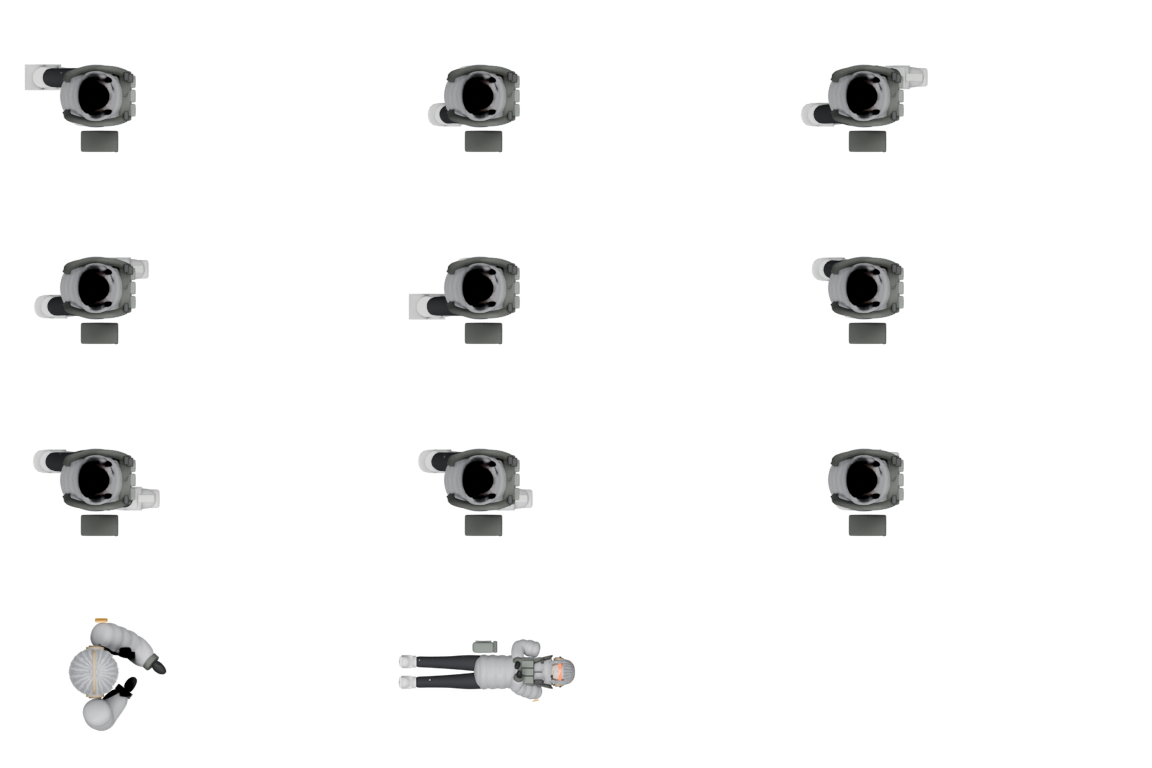
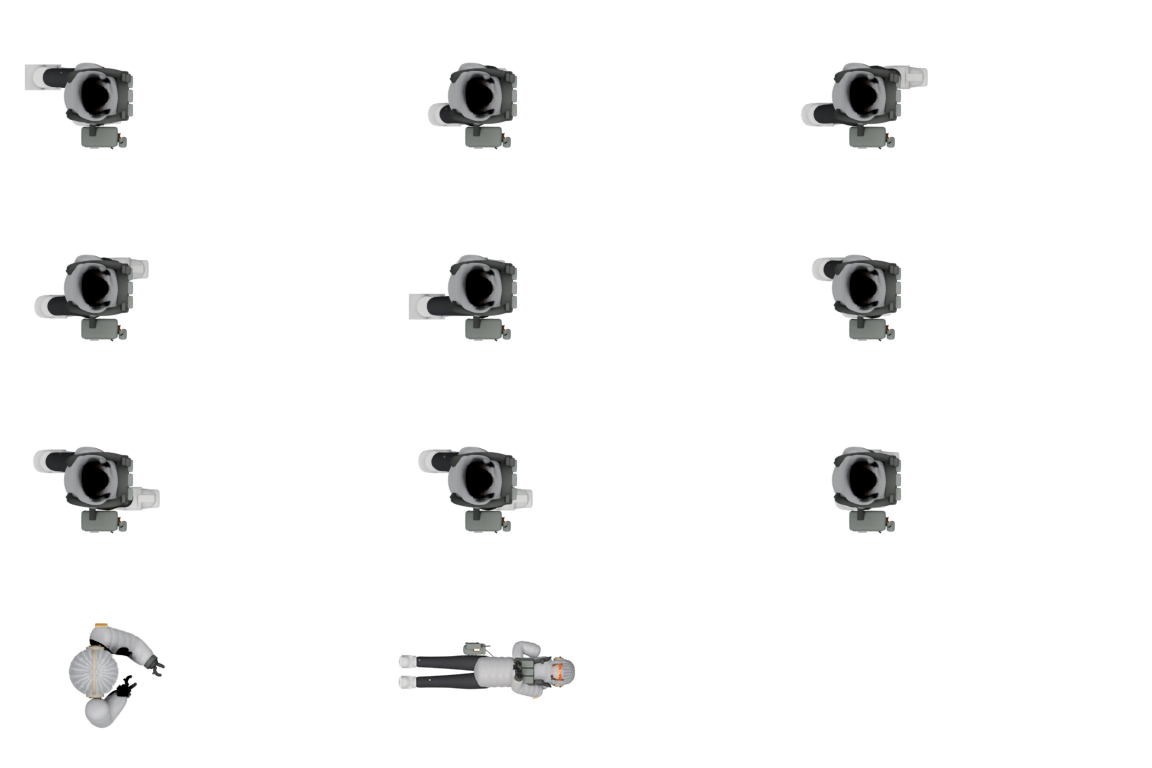
Operator second pass: slimmer jacket, detailed face, gloves and hip pouch
Jacket and sleeves are narrower with tighter down baffles. The face gets a
shaped jaw, eyes visible through the lenses, lids, brows, nose and lips, plus
ears. Gloves wrap the grip with four fingers, a thumb and knuckle pads. The
hip pouch gets a soft body, a lid, zipper pulls, chevrons, MOLLE webbing, a
hanger strap, a strobe with a real orange light and a radio pouch. Sprites
re-rendered.

Claude-Session: https://claude.ai/code/session_015yBCoKw9ZiM2zKSd8yFxFo

diff --git a/art/operator/build_operator.py b/art/operator/build_operator.py
@@ -210,7 +210,7 @@ def strap(name, pts, w, t, m):
 # ------------------------------------------------------------------ materials
 def make_mats(sprite):
     jacket = 0.42 if sprite else 0.014
-    mat('jacket', (jacket, jacket, jacket * 1.04), rough=0.45, sheen=0.15, coat=0.08, bump=0.25, bump_scale=140)
+    mat('jacket', (jacket, jacket, jacket * 1.04), rough=0.38, sheen=0.25, bump=0.35, bump_scale=90)
     mat('jeans', (0.028, 0.028, 0.032), rough=0.85, bump=0.5, wave={'dir': 'X', 'scale': 260, 'distort': 6})
     jm = MATS['jeans']; nt = jm.node_tree; b = nt.nodes['Principled BSDF']
     tc = nt.nodes.new('ShaderNodeTexCoord')
@@ -227,7 +227,16 @@ def make_mats(sprite):
     mix.inputs['B'].default_value = (0.78, 0.64, 0.55, 1)
     nt.links.new(mix.outputs['Result'], b.inputs['Base Color'])
     mat('rip', (0.85, 0.82, 0.78), rough=0.9, bump=0.8, bump_scale=300)
-    mat('skin', (0.80, 0.62, 0.52), rough=0.45, sheen=0.2)
+    mat('skin', (0.7, 0.48, 0.38), rough=0.45, sheen=0.1)
+    sb = MATS['skin'].node_tree.nodes['Principled BSDF']
+    sb.inputs['Subsurface Weight'].default_value = 0.25
+    sb.inputs['Subsurface Radius'].default_value = (0.01, 0.004, 0.002)
+    sb.inputs['Subsurface Scale'].default_value = 0.03
+    mat('lip', (0.72, 0.42, 0.40), rough=0.35)
+    mat('sclera', (0.9, 0.88, 0.86), rough=0.15, coat=1.0)
+    mat('iris', (0.06, 0.05, 0.05), rough=0.1, coat=1.0)
+    mat('brow', (0.2, 0.2, 0.22), rough=0.7)
+    mat('blush', (0.92, 0.55, 0.5), rough=0.5)
     mat('hair', (0.42, 0.43, 0.46), rough=0.32, sheen=0.4, coat=0.2)
     hm = MATS['hair']; nt = hm.node_tree; b = nt.nodes['Principled BSDF']
     tc = nt.nodes.new('ShaderNodeTexCoord')
@@ -250,10 +259,10 @@ def make_mats(sprite):
     mat('tan_dark', (0.17, 0.13, 0.08), rough=0.6)
     mat('rubber', (0.02, 0.02, 0.02), rough=0.6)
     mat('glove', (0.012, 0.012, 0.013), rough=0.7, bump=0.3, bump_scale=200)
-    mat('lens', (1.0, 0.28, 0.05), rough=0.05, transmission=0.6, coat=1.0, emit=(1.0, 0.25, 0.02), emit_str=0.6)
+    mat('lens', (1.0, 0.35, 0.08), rough=0.03, transmission=0.92, ior=1.2, coat=1.0, emit=(1.0, 0.3, 0.04), emit_str=0.15)
     mat('frame', (0.05, 0.05, 0.05), rough=0.3)
-    mat('nylon', (0.10, 0.105, 0.095), rough=0.8, bump=0.4, wave={'dir': 'X', 'scale': 300, 'distort': 1})
-    mat('pouch', (0.17, 0.19, 0.17), rough=0.8, bump=0.35, bump_scale=220)
+    mat('nylon', (0.07, 0.075, 0.068), rough=0.92, bump=0.7, wave={'dir': 'X', 'scale': 420, 'distort': 0.5})
+    mat('pouch', (0.15, 0.165, 0.15), rough=0.93, bump=0.55, bump_scale=420)
     mat('glow', (1.0, 0.45, 0.05), rough=0.3, emit=(1.0, 0.42, 0.04), emit_str=25)
     mat('sneaker', (0.85, 0.85, 0.84), rough=0.45, bump=0.12, bump_scale=200)
     mat('sole', (0.92, 0.91, 0.88), rough=0.7)
@@ -323,78 +332,100 @@ def build_character(phase=0.0, walking=False, rifle=True, sprite=False):
     torso = skin_obj('jacket', [(0, 0, pz - 0.15), (0, 0, pz - 0.02), (0.0, 0, pz + 0.12), (0.0, 0, pz + 0.26), (0.0, 0, pz + 0.4), (-0.005, 0, pz + 0.52),
                                 (-0.01, 0, pz + 0.66), (0.005, 0.2, pz + 0.53), (0.005, -0.2, pz + 0.53)],
                      [(0, 1), (1, 2), (2, 3), (3, 4), (4, 5), (5, 6), (5, 7), (5, 8)],
-                     [(0.215, 0.19), (0.215, 0.185), (0.21, 0.18), (0.215, 0.18), (0.22, 0.175), (0.18, 0.155), (0.088, 0.09), (0.12, 0.12), (0.12, 0.12)],
+                     [(0.19, 0.17), (0.19, 0.165), (0.185, 0.16), (0.19, 0.16), (0.195, 0.158), (0.165, 0.14), (0.08, 0.082), (0.105, 0.105), (0.105, 0.105)],
                      MATS['jacket'], sub=3)
-    quilt(torso, (0, 0, pz), (0, 0, 1), 0.095, 0.015)
+    quilt(torso, (0, 0, pz + 0.03), (0, 0, 1), 0.072, 0.017, sharp=0.22)
     parts['under'].append(torso)
     # Front zip
-    zp = prim_box('zip', (0.17, 0.0, pz + 0.3), (0.012, 0.014, 0.5), MATS['metal'], bevel=0.003, sub=0)
+    zp = prim_box('zip', (0.158, 0.0, pz + 0.2), (0.012, 0.014, 0.5), MATS['metal'], bevel=0.003, sub=0)
     parts['under'].append(zp)
 
     # Chest rig: front panel, shoulder straps crossing to the back, side pouch with an orange light.
     sz = pz + 0.42
-    panel = prim_box('rigpanel', (0.165, 0.0, sz - 0.04), (0.07, 0.28, 0.17), MATS['nylon'], bevel=0.015)
+    panel = prim_box('rigpanel', (0.15, 0.0, sz - 0.04), (0.07, 0.28, 0.17), MATS['nylon'], bevel=0.015)
     parts['under'].append(panel)
     for yy in (-0.08, 0.0, 0.08):
-        mg = prim_box(f'magp{yy}', (0.205, yy, sz - 0.02), (0.035, 0.07, 0.12), MATS['pouch'], bevel=0.008)
+        mg = prim_box(f'magp{yy}', (0.19, yy, sz - 0.02), (0.035, 0.07, 0.12), MATS['pouch'], bevel=0.008)
         parts['under'].append(mg)
-    radio = prim_box('radio', (0.19, 0.1, sz + 0.09), (0.04, 0.05, 0.08), MATS['rubber'], bevel=0.006)
+    radio = prim_box('radio', (0.175, 0.1, sz + 0.09), (0.04, 0.05, 0.08), MATS['rubber'], bevel=0.006)
     parts['under'].append(radio)
     for side in (1, -1):
-        st = strap(f'strap{side}', [(0.18, side * 0.1, sz + 0.03), (0.15, side * 0.13, pz + 0.55), (0.03, side * 0.15, pz + 0.64),
-                                    (-0.12, side * 0.13, pz + 0.56), (-0.17, side * 0.08, pz + 0.3)], 0.045, 0.008, MATS['nylon'])
+        st = strap(f'strap{side}', [(0.165, side * 0.1, sz + 0.03), (0.135, side * 0.12, pz + 0.55), (0.03, side * 0.135, pz + 0.63),
+                                    (-0.11, side * 0.12, pz + 0.55), (-0.155, side * 0.08, pz + 0.3)], 0.045, 0.008, MATS['nylon'])
         parts['under'].append(st)
-        bk = prim_box(f'buckle{side}', (0.17, side * 0.11, pz + 0.55), (0.025, 0.05, 0.03), MATS['rubber'], bevel=0.004, sub=0)
+        bk = prim_box(f'buckle{side}', (0.155, side * 0.105, pz + 0.55), (0.025, 0.05, 0.03), MATS['rubber'], bevel=0.004, sub=0)
         parts['under'].append(bk)
     # Waist belt and the big grey dump pouch on the right hip.
-    pouch = prim_box('dumppouch', (0.02, -0.25, pz - 0.05), (0.2, 0.11, 0.22), MATS['pouch'], bevel=0.03)
-    parts['under'].append(pouch)
-    zipr = tube('pouchzip', [(0.11, -0.312, pz + 0.03), (0.12, -0.31, pz - 0.05), (0.11, -0.312, pz - 0.13)], 0.004, MATS['metal'])
-    parts['under'].append(zipr)
-    flap = prim_box('pouchflap', (0.02, -0.255, pz + 0.07), (0.21, 0.118, 0.04), MATS['nylon'], bevel=0.01)
-    parts['under'].append(flap)
-    light = prim_box('stroblight', (0.095, -0.245, pz + 0.01), (0.03, 0.05, 0.06), MATS['rubber'], bevel=0.005)
-    lens = prim_box('strobglow', (0.112, -0.245, pz + 0.01), (0.008, 0.036, 0.042), MATS['glow'], bevel=0.003, sub=0)
-    lens_top = prim_box('strobglowtop', (0.095, -0.245, pz + 0.046), (0.022, 0.036, 0.008), MATS['glow'], bevel=0.002, sub=0)
-    parts['under'] += [light, lens, lens_top]
+    parts['under'] += build_pouch(Vector((0.02, -0.225, pz - 0.15)), pz)
     # Orange unit patch on the left shoulder (original 'HM' horde badge).
-    patch = prim_box('patch', (0.03, 0.29, pz + 0.48), (0.07, 0.012, 0.06), MATS['patch'], bevel=0.006, rot=(0.25, 0, 0))
+    patch = prim_box('patch', (0.03, 0.262, pz + 0.48), (0.07, 0.012, 0.06), MATS['patch'], bevel=0.006, rot=(0.25, 0, 0))
     parts['over'].append(patch)
 
     # Arms: puffy sleeves in a two-handed rifle hold. Hands match the game's grip points.
-    sh = {1: Vector((0.0, 0.215, pz + 0.53)), -1: Vector((0.0, -0.215, pz + 0.53))}
-    hand_r = Vector((0.2, -0.055, pz + 0.3))   # trigger hand (right)
-    hand_l = Vector((0.36, 0.012, pz + 0.32))  # support hand (left)
+    sh = {1: Vector((0.0, 0.195, pz + 0.53)), -1: Vector((0.0, -0.195, pz + 0.53))}
+    hand_r = Vector((0.2, -0.055 if STRIDE_SMALL else -0.03, pz + 0.3))   # trigger hand (right)
+    hand_l = Vector((0.36, 0.012 if STRIDE_SMALL else -0.03, pz + 0.32))  # support hand (left)
     elbow_r = Vector((0.03, -0.27, pz + 0.3))
     elbow_l = Vector((0.2, 0.15, pz + 0.28))
     for side, hand, elbow in ((1, hand_l, elbow_l), (-1, hand_r, elbow_r)):
         wrist = hand - (hand - elbow).normalized() * 0.07
         sl = skin_obj(f'sleeve{side}', [sh[side], sh[side].lerp(elbow, 0.5), elbow, elbow.lerp(wrist, 0.5), wrist],
                       [(0, 1), (1, 2), (2, 3), (3, 4)],
-                      [(0.092, 0.092), (0.086, 0.086), (0.078, 0.078), (0.07, 0.07), (0.058, 0.058)],
+                      [(0.078, 0.078), (0.072, 0.072), (0.064, 0.064), (0.058, 0.058), (0.05, 0.05)],
                       MATS['jacket'], sub=3)
-        quilt(sl, sh[side], elbow - sh[side], 0.08, 0.014)
+        quilt(sl, sh[side], elbow - sh[side], 0.062, 0.014, sharp=0.22)
         parts['over'].append(sl)
-        cuff = prim_cyl(f'cuff{side}', wrist, 0.05, 0.035, MATS['nylon'])
+        cuff = prim_cyl(f'cuff{side}', wrist, 0.043, 0.03, MATS['nylon'])
         cuff.rotation_euler = Euler((0, math.pi / 2, 0)).to_matrix().to_euler()
         d = (hand - wrist).normalized()
         cuff.rotation_euler = d.to_track_quat('Z', 'Y').to_euler()
         parts['over'].append(cuff)
-        # Glove: palm + knuckles + curled fingers + thumb.
-        g = skin_obj(f'glove{side}', [wrist, hand, hand + d * 0.045 + Vector((0, 0, -0.025)), hand + Vector((0, side * 0.03, 0.02))],
-                     [(0, 1), (1, 2), (1, 3)], [(0.038, 0.032), (0.045, 0.03), (0.032, 0.026), (0.016, 0.016)], MATS['glove'])
-        parts['over'].append(g)
+        parts['over'] += build_glove(side, hand, wrist)
 
     # Head, face, hair, headset, glasses.
     hz = pz + 0.72
     neck = prim_cyl('neck', (0, 0, hz - 0.12), 0.05, 0.1, MATS['skin'])
     parts['over'].append(neck)
-    head = prim_sphere('head', (0.0, 0, hz), 0.1, MATS['skin'], scale=(1.0, 0.88, 1.12))
+    head = prim_sphere('head', (0.0, 0, hz), 0.1, MATS['skin'], scale=(1.0, 0.86, 1.12), seg=64)
+    # Shape the skull into a face: tapered jaw, pointed chin, flatter cheeks, eye sockets.
+    for v in head.data.vertices:
+        c = v.co - Vector((0, 0, hz))
+        low = max(0.0, -c.z) / 0.112           # 0 at eye line .. 1 at chin
+        front = max(0.0, c.x) / 0.1
+        c.y *= 1 - 0.38 * low ** 1.3 * (0.5 + 0.5 * front)
+        c.x *= 1 - 0.12 * low * (1 - front)
+        if c.z < -0.06:
+            c.x += 0.012 * front * (low - 0.5)
+        # Shallow eye sockets
+        for ey in (0.034, -0.034):
+            d = math.hypot(c.y - ey, c.z - 0.004)
+            if c.x > 0.06 and d < 0.026:
+                c.x -= 0.006 * (1 - d / 0.026)
+        v.co = c + Vector((0, 0, hz))
     parts['over'].append(head)
-    nose = prim_sphere('nose', (0.098, 0, hz - 0.02), 0.014, MATS['skin'], scale=(1, 0.8, 1.3), seg=16)
+    # Nose: bridge + tip + nostrils.
+    nose = skin_obj('nose', [(0.094, 0, hz + 0.0), (0.103, 0, hz - 0.03), (0.099, 0, hz - 0.04)], [(0, 1), (1, 2)],
+                    [(0.0045, 0.0045), (0.0062, 0.0062), (0.005, 0.005)], MATS['skin'])
     parts['over'].append(nose)
-    mouth = tube('mouth', [(0.094, 0.018, hz - 0.058), (0.099, 0.0, hz - 0.06), (0.094, -0.018, hz - 0.057)], 0.0025, MATS['tan_dark'])
-    parts['over'].append(mouth)
+    for side in (1, -1):
+        nst = prim_sphere(f'nostril{side}', (0.096, side * 0.0065, hz - 0.04), 0.0045, MATS['skin'], scale=(1, 1, 0.7), seg=16)
+        parts['over'].append(nst)
+    # Lips: upper and lower, slightly parted in a calm half smile.
+    ul = tube('lipup', [(0.088, 0.016, hz - 0.064), (0.095, 0.0, hz - 0.062), (0.088, -0.016, hz - 0.063)], 0.0028, MATS['lip'])
+    ll = tube('liplow', [(0.086, 0.012, hz - 0.069), (0.092, 0.0, hz - 0.0705), (0.086, -0.012, hz - 0.069)], 0.0034, MATS['lip'])
+    parts['over'] += [ul, ll]
+    # Eyes (visible through the tinted lenses), brows, faint blush.
+    for side in (1, -1):
+        ey = side * 0.034
+        sc = prim_sphere(f'eye{side}', (0.086, ey, hz + 0.004), 0.016, MATS['sclera'], scale=(0.7, 1, 0.75), seg=24)
+        ir = prim_sphere(f'iris{side}', (0.0955, ey * 0.95, hz + 0.004), 0.0075, MATS['iris'], scale=(0.5, 1, 1.05), seg=16)
+        lid = tube(f'lid{side}', [(0.091, ey + 0.015, hz + 0.008), (0.098, ey, hz + 0.0145), (0.091, ey - 0.015, hz + 0.009)], 0.0018, MATS['iris'])
+        brow = tube(f'brow{side}', [(0.094, ey + 0.02, hz + 0.034), (0.1, ey, hz + 0.039), (0.096, ey - 0.018, hz + 0.036)], 0.0025, MATS['brow'])
+        parts['over'] += [sc, ir, lid, brow]
+    # Ears peek out under the cups.
+    for side in (1, -1):
+        ear = prim_sphere(f'ear{side}', (-0.005, side * 0.088, hz - 0.02), 0.022, MATS['skin'], scale=(0.8, 0.35, 1.2), seg=24)
+        parts['over'].append(ear)
     # Hair: a bob cut. Shell around the skull with a face opening and blunt bangs.
     bpy.ops.mesh.primitive_uv_sphere_add(segments=64, ring_count=32, radius=0.118, location=(-0.008, 0, hz + 0.012))
     hair = bpy.context.active_object; hair.name = 'hair'
@@ -480,10 +511,88 @@ def build_character(phase=0.0, walking=False, rifle=True, sprite=False):
         parts['gun'] = build_rifle(hand_r, hand_l)
     return parts, pz
 
+def build_pouch(c, pz):
+    """Grey dump pouch on the right hip: soft rounded body, curved lid, zipper with pulls,
+    MOLLE webbing, a hanger strap to the belt and a small strobe with an orange glow."""
+    out = []
+    body = prim_box('pouchbody', c, (0.2, 0.1, 0.21), MATS['pouch'], bevel=0.035, sub=2)
+    # Soft bulge: push the outer face out a little.
+    bake(body)
+    for v in body.data.vertices:
+        if v.co.y < c.y - 0.02:
+            k = max(0.0, 1 - ((v.co.x - c.x) / 0.1) ** 2) * max(0.0, 1 - ((v.co.z - c.z) / 0.105) ** 2)
+            v.co.y -= 0.014 * k
+    out.append(body)
+    lid = prim_box('pouchlid', c + Vector((0, -0.004, 0.105)), (0.205, 0.112, 0.035), MATS['pouch'], bevel=0.016, sub=2)
+    lip = prim_box('pouchlidlip', c + Vector((0, -0.058, 0.078)), (0.17, 0.012, 0.05), MATS['pouch'], bevel=0.006, sub=1)
+    out += [lid, lip]
+    # Vertical zipper on the outer face, with two pulls.
+    zp = tube('pouchzip', [c + Vector((0.065, -0.066, 0.06)), c + Vector((0.072, -0.068, -0.0)), c + Vector((0.065, -0.066, -0.085))], 0.0035, MATS['metal'])
+    out.append(zp)
+    for zz in (0.04, -0.07):
+        pull = prim_box(f'zpull{zz}', c + Vector((0.073, -0.072, zz)), (0.008, 0.004, 0.03), MATS['rubber'], bevel=0.002, sub=0)
+        out.append(pull)
+    # Chevron stitching panel (a nod to the reference's tape) and MOLLE rows.
+    for i in range(3):
+        for sgn in (1, -1):
+            st = prim_box(f'chev{i}{sgn}', c + Vector((-0.03 + sgn * 0.012, -0.068, 0.03 - i * 0.025)), (0.026, 0.003, 0.004), MATS['nylon'],
+                          rot=(0, sgn * 0.6, 0), bevel=0, sub=0)
+            out.append(st)
+    for i in range(3):
+        mo = prim_box(f'molle{i}', c + Vector((0, 0.0, -0.05 + i * 0.035)), (0.012, 0.106, 0.012), MATS['nylon'], bevel=0.003, sub=0)
+        mo.location.x = c.x - 0.101
+        out.append(mo)
+    hanger = strap('pouchhanger', [c + Vector((-0.04, 0.0, 0.12)), c + Vector((-0.04, 0.03, 0.16)), c + Vector((-0.04, 0.07, 0.2))], 0.035, 0.006, MATS['nylon'])
+    out.append(hanger)
+    # Strobe on the front edge: housing, bezel, glowing element and a real light.
+    sc = c + Vector((0.108, -0.01, 0.03))
+    house = prim_box('strobe', sc, (0.026, 0.05, 0.068), MATS['rubber'], bevel=0.006, sub=1)
+    glow = prim_box('strobeglow', sc + Vector((0.013, 0, 0.004)), (0.006, 0.034, 0.046), MATS['glow'], bevel=0.003, sub=0)
+    for zz in (-0.012, 0.0, 0.012):
+        bar = prim_box(f'strobebar{zz}', sc + Vector((0.0165, 0, 0.004 + zz)), (0.002, 0.036, 0.003), MATS['rubber'], bevel=0, sub=0)
+        out.append(bar)
+    clip = prim_box('strobeclip', sc + Vector((-0.016, 0, 0.0)), (0.008, 0.02, 0.06), MATS['metal'], bevel=0.002, sub=0)
+    out += [house, glow, clip]
+    ld = bpy.data.lights.new('strobelight', 'POINT'); ld.energy = 1.2; ld.color = (1.0, 0.45, 0.05); ld.shadow_soft_size = 0.01
+    lo = link(bpy.data.objects.new('strobelight', ld)); lo.location = sc + Vector((0.03, 0, 0.004))
+    # Tall radio pouch next to it, like a second piece of kit.
+    rp = prim_box('radiopouch', c + Vector((0.13, -0.035, 0.0)), (0.045, 0.06, 0.15), MATS['pouch'], bevel=0.012, sub=1)
+    ant = tube('antenna', [c + Vector((0.13, -0.035, 0.07)), c + Vector((0.128, -0.036, 0.13)), c + Vector((0.12, -0.04, 0.17))], 0.004, MATS['rubber'])
+    out += [rp, ant]
+    return out
+
+def build_glove(side, hand, wrist):
+    """Tactical glove wrapped round a vertical grip under the hand: palm, 4 curled fingers,
+    thumb over the top, padded knuckle strip and a velcro wrist tab."""
+    out = []
+    gc = Vector((hand.x, hand.y, hand.z - 0.01))       # grip axis (vertical)
+    u = Vector((wrist.x - gc.x, wrist.y - gc.y, 0)).normalized()  # from grip toward the wrist (palm side)
+    w = Vector((-u.y, u.x, 0)) * side                  # around the grip
+    rg = 0.02
+    palm = skin_obj(f'palm{side}', [wrist, gc + u * (rg + 0.03) + Vector((0, 0, 0.012)), gc + u * (rg + 0.012) + Vector((0, 0, 0.005))],
+                    [(0, 1), (1, 2)], [(0.032, 0.026), (0.036, 0.022), (0.032, 0.02)], MATS['glove'])
+    out.append(palm)
+    for i in range(4):
+        z = 0.022 - i * 0.017
+        r0 = 0.0105 - i * 0.0008
+        pts = []
+        for k, th in enumerate((0.0, 0.9, 1.8, 2.6)):
+            dirv = u * math.cos(th) + w * math.sin(th)
+            pts.append(gc + dirv * (rg + 0.012) + Vector((0, 0, z - k * 0.002)))
+        f = skin_obj(f'finger{side}{i}', pts, [(0, 1), (1, 2), (2, 3)], [(r0, r0), (r0 * 0.95, r0 * 0.95), (r0 * 0.9, r0 * 0.9), (r0 * 0.8, r0 * 0.8)], MATS['glove'], sub=1)
+        out.append(f)
+        kn = prim_box(f'knuckle{side}{i}', gc + (u * math.cos(1.2) + w * math.sin(1.2)) * (rg + 0.022) + Vector((0, 0, z)), (0.012, 0.012, 0.012), MATS['rubber'], bevel=0.004)
+        out.append(kn)
+    th = [gc + u * (rg + 0.02) - w * 0.012 + Vector((0, 0, 0.03)), gc - w * (rg + 0.006) + Vector((0, 0, 0.034)), gc - w * (rg + 0.004) + u * -0.012 + Vector((0, 0, 0.03))]
+    out.append(skin_obj(f'thumb{side}', th, [(0, 1), (1, 2)], [(0.011, 0.011), (0.0095, 0.0095), (0.008, 0.008)], MATS['glove'], sub=1))
+    tab = prim_box(f'gtab{side}', wrist + u * 0.004 + Vector((0, 0, 0.022)), (0.03, 0.035, 0.008), MATS['nylon'], bevel=0.003)
+    out.append(tab)
+    return out
+
 def build_rifle(hand_r, hand_l):
     """Compact suppressed carbine with a camo finish. Bore along +X."""
     parts = []
-    by = 0.0
+    by = (hand_r.y + hand_l.y) / 2
     bz = hand_r.z + 0.06
     x0 = hand_r.x - 0.2
     rc = prim_box('receiver', (x0 + 0.24, by, bz), (0.26, 0.05, 0.07), MATS['camo'], bevel=0.008)
@@ -496,12 +605,12 @@ def build_rifle(hand_r, hand_l):
     optl = prim_cyl('opticlens', (x0 + 0.28, by, bz + 0.08), 0.016, 0.004, MATS['lens'], rot=(0, math.pi / 2, 0))
     mag = prim_box('mag', (x0 + 0.27, by, bz - 0.1), (0.06, 0.035, 0.15), MATS['rubber'], rot=(0, -0.18, 0), bevel=0.006)
     tag = prim_box('magtag', (x0 + 0.27, by + 0.019, bz - 0.11), (0.03, 0.002, 0.06), MATS['teal'], rot=(0, -0.18, 0), bevel=0, sub=0)
-    grip = prim_box('grip', (hand_r.x - 0.005, by, bz - 0.07), (0.035, 0.03, 0.09), MATS['rubber'], rot=(0, 0.3, 0), bevel=0.006)
+    grip = prim_box('grip', (hand_r.x - 0.005, hand_r.y, bz - 0.07), (0.035, 0.03, 0.09), MATS['rubber'], rot=(0, 0.3, 0), bevel=0.006)
     stock = prim_box('stock', (x0 - 0.02, by, bz - 0.01), (0.2, 0.04, 0.075), MATS['camo'], bevel=0.01)
     pad = prim_box('buttpad', (x0 - 0.125, by, bz - 0.01), (0.02, 0.045, 0.09), MATS['rubber'], bevel=0.005)
     sup = prim_cyl('suppressor', (x0 + 0.78, by, bz + 0.004), 0.024, 0.24, MATS['suppressor'], rot=(0, math.pi / 2, 0))
     lamp = prim_cyl('weaponlight', (x0 + 0.58, by - 0.04, bz - 0.005), 0.014, 0.07, MATS['metal'], rot=(0, math.pi / 2, 0))
-    vfg = prim_cyl('foregrip', (hand_l.x, by, bz - 0.05), 0.014, 0.06, MATS['rubber'])
+    vfg = prim_cyl('foregrip', (hand_l.x, hand_l.y, bz - 0.05), 0.014, 0.06, MATS['rubber'])
     parts += [rc, hg, rail, optic, optl, mag, tag, grip, stock, pad, sup, lamp, vfg]
     return parts
 
@@ -572,14 +681,15 @@ def showcase():
     bpy.ops.mesh.primitive_plane_add(size=12, location=(0, 0, 0))
     fl = bpy.context.active_object
     assign(fl, mat('floor', (0.05, 0.052, 0.055), rough=0.8))
-    area('key', (2.2, -2.0, 2.6), (0, 0, 1.1), 420, 1.6, (1.0, 0.95, 0.88))
+    area('key', (2.2, -2.0, 2.6), (0, 0, 1.1), 300, 1.8, (1.0, 0.95, 0.88))
     area('fill', (1.6, 2.4, 1.4), (0, 0, 1.0), 120, 2.5, (0.75, 0.85, 1.0))
     area('rim', (-2.0, 0.6, 2.4), (0, 0, 1.3), 380, 1.0, (1.0, 0.7, 0.45))
     angle = float(EXTRA[0]) if EXTRA else -32
     a = math.radians(angle)
-    d = 4.3
-    camera((math.cos(a) * d, math.sin(a) * d, 1.05), (0.05, 0, 0.88), lens=62)
-    sc.render.filepath = os.path.join(OUT, f'showcase_{int(angle)}.png')
+    d = float(os.environ.get('DIST', 4.3))
+    tz = float(os.environ.get('TZ', 0.88))
+    camera((math.cos(a) * d, math.sin(a) * d, tz + 0.17 * d / 4.3), (0.05, -0.02, tz), lens=62)
+    sc.render.filepath = os.path.join(OUT, f'showcase_{int(angle)}{os.environ.get("TAG", "")}.png')
     bpy.ops.render.render(write_still=True)
 
 def sprite_scene(ortho_units=72, res=192, samples=48):
